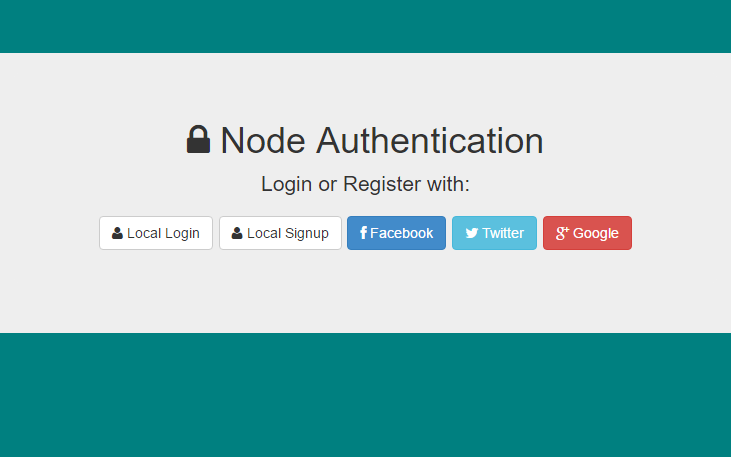
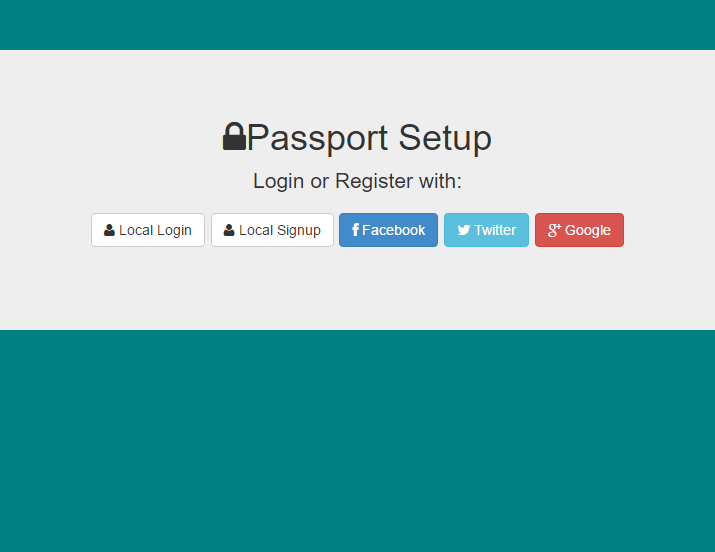
Title Change

diff --git a/README.md b/README.md
@@ -14,4 +14,4 @@ Test login application using MongoDB and Passport
 - Logout security faulted with back button.
 - Information Change
 
-![desktopimage](https://cloud.githubusercontent.com/assets/17518011/16886116/4d4f8222-4aa0-11e6-9805-29ca9bf8d81a.PNG)
+![desktopimage](https://cloud.githubusercontent.com/assets/17518011/16886210/d985bda6-4aa0-11e6-84b7-2d8de2506385.PNG)
